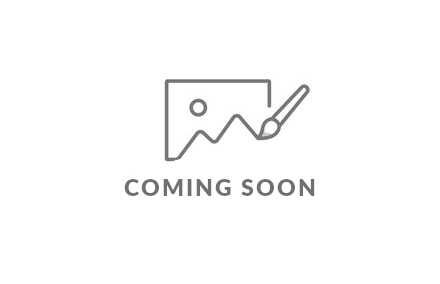
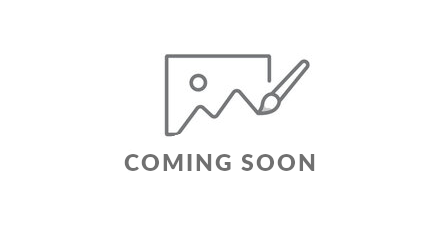
Fixed scrolls text overflow

diff --git a/src/assets/style.scss b/src/assets/style.scss
@@ -489,11 +489,13 @@ button {
     height: 200px;
     min-width: 250px;
     padding-right: 20px;
+    transition: 400ms ease-in;
 
     h3 {
         color: var(--primary-color);
         font-size: 1.5rem;
         font-weight: 600;
+
     }
 
     span {
@@ -502,12 +504,14 @@ button {
         font-weight: 600;
         text-transform: uppercase;
         color: #7a5f5f;
+
     }
 
     p {
         font-size: 1rem;
         font-size: 1.1rem;
         color: #000;
+
     }
 }
 
